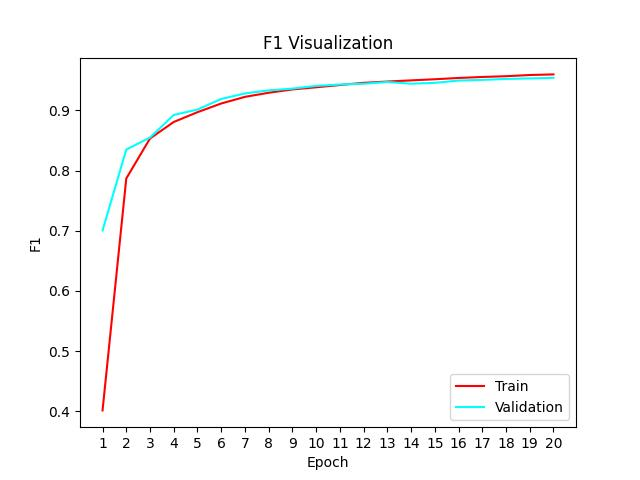
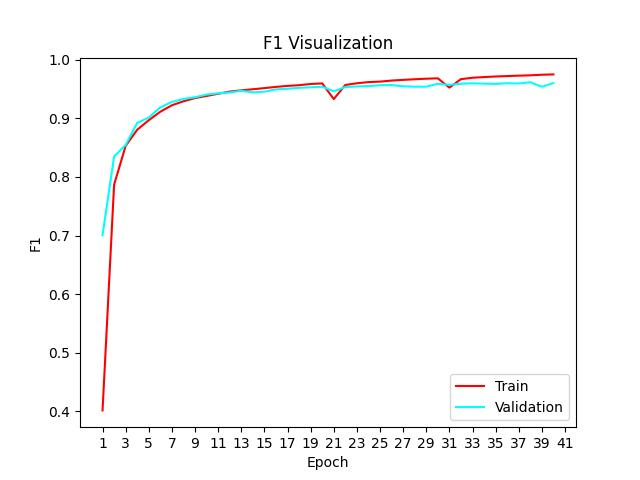
update training

diff --git a/src/tools/eval.py b/src/tools/eval.py
@@ -13,20 +13,23 @@ from torchsummary import summary
 
 class Evaluator:
     def __init__(self, options: dict,
-                 log_path=os.path.join(os.getcwd(), "logs", "eval_log.json"),
-                 checkpoint_path=os.path.join(os.getcwd(), "checkpoints"),
-                 map_location="cuda" if torch.cuda.is_available() else "cpu"):
+                 log_path=os.path.join(os.getcwd(), "logs", "eval_log.json")
+                 ):
         self.__options = options
         self.__log_path = log_path
-        self.__checkpoint_path = checkpoint_path
-        self.__checkpoint = torch.load(f=os.path.join(self.__checkpoint_path, "best_checkpoint.pt"), map_location=map_location)
 
 
-    def eval(self, test_set: DataLoader, checkpoint_name: str,
-             device="cuda" if torch.cuda.is_available() else "cpu") -> None:
-        model = get_model(self.__checkpoint["model_state_dict"], **self.__options.NN)
+    # Public methods
+    def eval(self, test_set: DataLoader, checkpoint_name: str) -> None:
+        if self.__options.DEVICE.CUDA:
+            checkpoint = torch.load(f=os.path.join(os.getcwd(), "checkpoints", checkpoint_name), map_location="cuda")
+            model = get_model(cuda=True, model_state_dict=checkpoint["model_state_dict"], **self.__options.NN)
+            multiclass_confusion_matrix = MulticlassConfusionMatrix(num_classes=self.__options.NN.NUM_CLASSES, device="cuda")  # row for actual, col for predicted
+        else:
+            checkpoint = torch.load(f=os.path.join(os.getcwd(), "checkpoints", checkpoint_name), map_location="cpu")
+            model = get_model(cuda=True, model_state_dict=checkpoint["model_state_dict"], **self.__options.NN)
+            multiclass_confusion_matrix = MulticlassConfusionMatrix(num_classes=self.__options.NN.NUM_CLASSES, device="cpu")  # row for actual, col for predicted
         model.eval()
-        multiclass_confusion_matrix = MulticlassConfusionMatrix(num_classes=self.__options.NN.NUM_CLASSES, device=device)  # row for actual, col for predicted
 
         with torch.no_grad():
             for index, batch in tqdm(enumerate(test_set), total=len(test_set), desc="Evaluating"):

diff --git a/src/tools/visualization.py b/src/tools/visualization.py
@@ -10,7 +10,7 @@ matplotlib.use('TkAgg')
 # print(matplotlib.get_backend())
 
 
-def training_visualization(file_name: str, metrics_lst: List[str]):
+def training_visualization(file_name: str, metrics_lst: List[str], x_interval=2):
     # remove existing dir
     if os.path.exists(os.path.join(os.getcwd(), "report")):
         shutil.rmtree(os.path.join(os.getcwd(), "report"))
@@ -44,7 +44,7 @@ def training_visualization(file_name: str, metrics_lst: List[str]):
         ax.set_xlabel("Epoch")
         ax.set_ylabel(metrics_lst[i].title())
 
-        ax.set_xticks(range(min(metrics_dict["epoch"]), max(metrics_dict["epoch"])+1, 1))
+        ax.set_xticks(range(min(metrics_dict["epoch"]), max(metrics_dict["epoch"])+2, x_interval))
 
         ax.legend(["Train", "Validation"])
         fig.savefig(os.path.join(os.getcwd(), "report", f"{metrics_lst[i].title()}.jpg"))

diff --git a/src/tools/train.py b/src/tools/train.py
@@ -1,7 +1,7 @@
 import os
 
 from box import Box
-from time import time
+from time import time, sleep
 from tqdm import tqdm
 from typing import List
 from src.utils.logger import Logger
@@ -45,7 +45,7 @@ class Trainer:
 
 
     # Public methods
-    def train(self, train_set: DataLoader, validation_set: DataLoader, train_loss=None) -> None:
+    def train(self, train_set: DataLoader, validation_set: DataLoader, sleep_time: int, train_loss=None) -> None:
         print("Start training model ...")
         self.__model.train()
 
@@ -109,6 +109,9 @@ class Trainer:
             # Reset metrics
             for metric in self.__metrics:
                 metric.reset()
+
+            # Stop in short time
+            sleep(sleep_time)
         return None
 
 

diff --git a/main.py b/main.py
@@ -19,13 +19,13 @@ def main() -> None:
                                                       )
     print(f"""Train batch: {len(train_set)}, Validation batch: {len(validation_set)}, Test batch: {len(test_set)}""")
     # trainer = Trainer(options=options)
-    # trainer.train(train_set, validation_set)
+    # trainer.train(train_set, validation_set, 180)
 
     # evaluator = Evaluator(options)
     # evaluator.eval(test_set, "best_checkpoint.pt")
 
 
-    training_visualization(file_name="training_log.json", metrics_lst   =["loss", "acc", "f1"])
+    training_visualization(file_name="training_log.json", metrics_lst=["loss", "acc", "f1"], x_interval=2)
     return None
 
 

diff --git a/src/utils/logger.py b/src/utils/logger.py
@@ -1,5 +1,4 @@
 import json
-import torch
 
 from datetime import datetime
 
